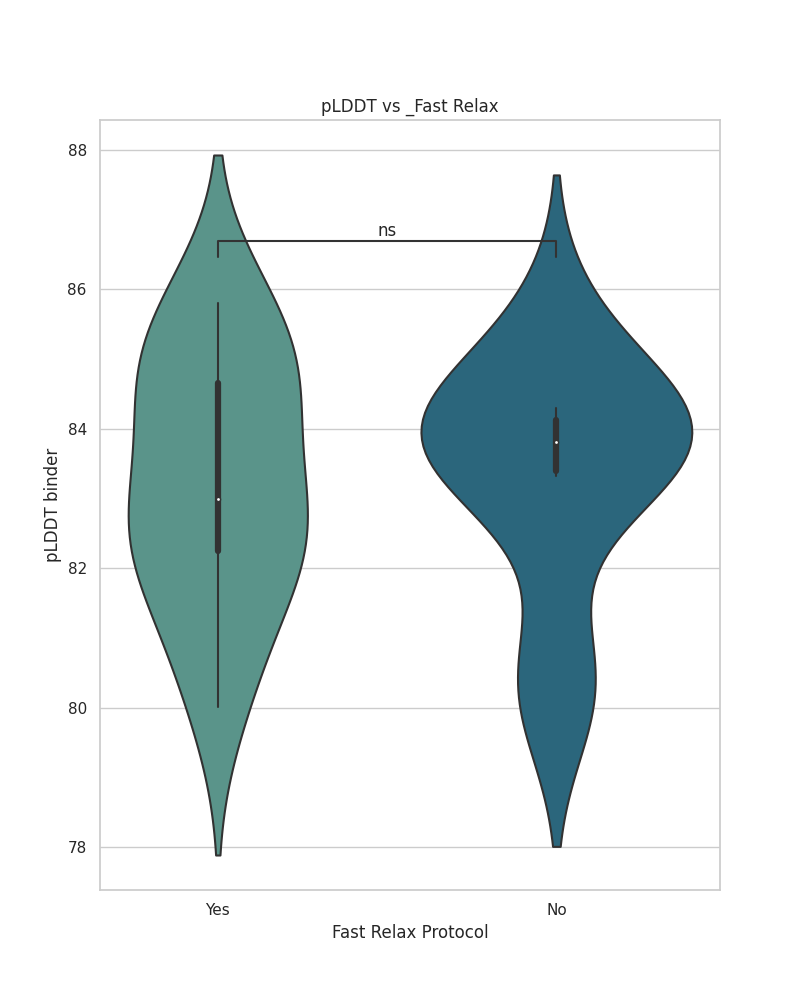
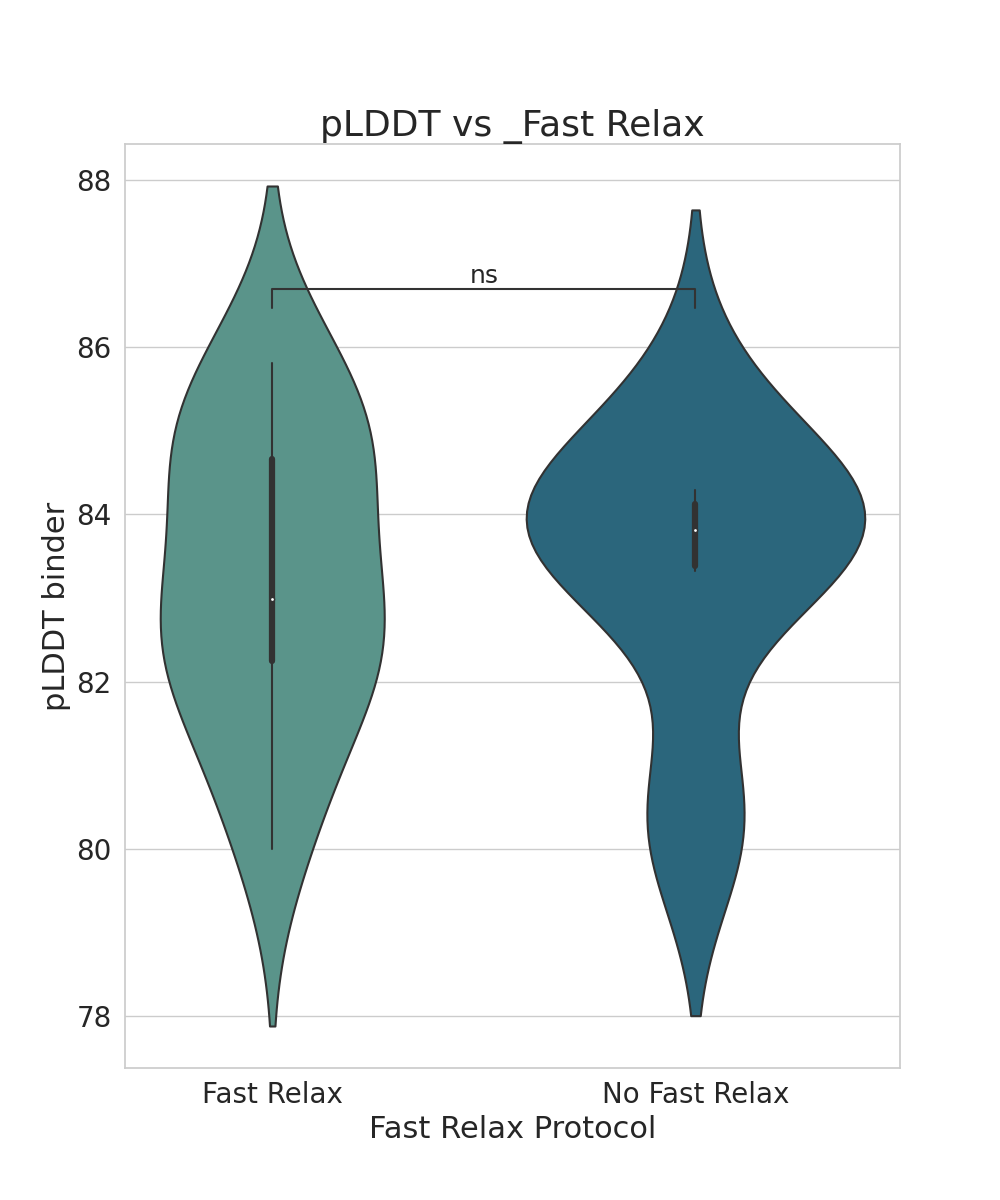
more commits

diff --git a/FIGURES/Fast_relax_figures.py b/FIGURES/Fast_relax_figures.py
@@ -77,7 +77,7 @@ df_plot = pd.DataFrame(data)
 sns.set(style="whitegrid")
 
 # Create a bar plot
-plt.figure(figsize=(10, 8))
+plt.figure(figsize=(10,12))
 barplot = sns.barplot(x='Campaign', y='Percentage', data=df_plot, palette='crest')
 
 # Add significance bracket with an asterisk
@@ -96,19 +96,19 @@ props = dict(boxstyle='round,pad=0.3', edgecolor='black', facecolor='white')
 
 
 # Add titles and labels
-plt.title('Fast Relax vs No Fast Relax Success Rates', fontsize=20)
-plt.ylabel('Hits Success Rate (%)', fontsize=16)
-plt.xlabel('Campaign', fontsize=16)
-barplot.set_xticklabels((f'Fast Relax\n n={positives_FR + negatives_FR}', f'No Fast Relax\n n={positives_noFR+negatives_noFR}'), fontsize=14)
+plt.title('Fast Relax vs No Fast Relax Success Rates', fontsize=26)
+plt.ylabel('Hits Success Rate (%)', fontsize=22)
+plt.xlabel('Fast Relax Protocol', fontsize=22)
+barplot.set_xticklabels((f'Fast Relax\n n={positives_FR + negatives_FR}', f'No Fast Relax\n n={positives_noFR+negatives_noFR}'), fontsize=20)
 # Show the plot
-plt.tick_params(axis='y', labelsize=14)
+plt.tick_params(axis='y', labelsize=20)
 
 plt.ylim((0,0.07))
 plt.savefig('/home/cchacon/Carlos_scripts/FIGURES/FastRelaxvsNoFRSuccessRates.png')
 
-plt.figure(figsize=(8,10))
+plt.figure(figsize=(10,12))
 violinplot=sns.violinplot(data=df_filtered, x='campaign', y='pae_interaction', palette='crest')
-violinplot.set_xticklabels(['Yes', 'No'])
+violinplot.set_xticklabels(['Fast Relax', 'No Fast Relax'])
 annotator=Annotator(
     violinplot,
     data=df_filtered,
@@ -122,17 +122,20 @@ annotator.configure(
     test='Mann-Whitney',
     text_format='star',
     loc='inside',
-    comparisons_correction="bonferroni")
+    comparisons_correction="bonferroni",
+    fontsize=18)
     
 annotator.apply_and_annotate()
-plt.title('PAE vs Fast Relax')
-plt.ylabel(f'pae_interaction ($\AA$)')
-plt.xlabel('Fast Relax Protocol')
+plt.title('PAE vs Fast Relax', fontsize=26)
+plt.ylabel(f'PAE interaction ($\AA$)', fontsize=22)
+plt.xlabel('Fast Relax Protocol', fontsize=22)
+plt.tick_params(axis='y', labelsize=20)
+plt.tick_params(axis='x', labelsize=20)
 plt.savefig('/home/cchacon/Carlos_scripts/FIGURES/violinplot_pae_interaction_FR.png')
 
-plt.figure(figsize=(8,10))
+plt.figure(figsize=(10,12))
 violinplot=sns.violinplot(data=df_filtered, x='campaign', y='plddt_binder', palette='crest')
-violinplot.set_xticklabels(['Yes', 'No'])
+violinplot.set_xticklabels(['Fast Relax','No Fast Relax'])
 annotator=Annotator(
     violinplot,
     data=df_filtered,
@@ -146,12 +149,15 @@ annotator.configure(
     test='Mann-Whitney',
     text_format='star',
     loc='inside',
-    comparisons_correction="bonferroni")
+    comparisons_correction="bonferroni",
+    fontsize=18)
     
 annotator.apply_and_annotate()
-plt.title('pLDDT vs _Fast Relax')
-plt.ylabel(f'pLDDT binder')
-plt.xlabel('Fast Relax Protocol')
+plt.title('pLDDT vs _Fast Relax', fontsize=26)
+plt.ylabel(f'pLDDT binder', fontsize=22)
+plt.xlabel('Fast Relax Protocol', fontsize=22)
+plt.tick_params(axis='y', labelsize=20)
+plt.tick_params(axis='x', labelsize=20)
 plt.savefig('/home/cchacon/Carlos_scripts/FIGURES/violinplot_plddt_binder_FR.png')
 
 rmsd_fr_path='/emdata/cchacon/RFD_PD_test/campaign_run_112_FR/hits/rmsd.csv'
@@ -163,9 +169,9 @@ df_rmsd_nofr=pd.read_csv(rmsd_nofr_path, header=0)
 df_rmsd_nofr['FR']='No Fast Relax'
 
 df_rmsd=pd.concat([df_rmsd_fr, df_rmsd_nofr])
-plt.figure(figsize=(8,10))
+plt.figure(figsize=(10,12))
 violinplot=sns.violinplot(data=df_rmsd, x='FR', y='Global RMSD', palette='crest')
-violinplot.set_xticklabels(['Yes', 'No'])
+violinplot.set_xticklabels(['Fast Relax', 'No Fast Relax'])
 
 annotator=Annotator(
     violinplot,
@@ -180,10 +186,13 @@ annotator.configure(
     test='Mann-Whitney',
     text_format='star',
     loc='inside',
-    comparisons_correction="bonferroni")
+    comparisons_correction="bonferroni",
+    fontsize=18)
     
 annotator.apply_and_annotate()
-plt.title('RMSD vs _Fast Relax')
-plt.ylabel(f'RMSD ($\AA$)')
-plt.xlabel('Fast Relax Protocol')
+plt.title('RMSD vs _Fast Relax', fontsize=26)
+plt.ylabel(f'RMSD ($\AA$)', fontsize=22)
+plt.xlabel('Fast Relax Protocol', fontsize=22)
+plt.tick_params(axis='y', labelsize=20)
+plt.tick_params(axis='x', labelsize=20)
 plt.savefig('/home/cchacon/Carlos_scripts/FIGURES/violinplot_rmsd_FR.png')
